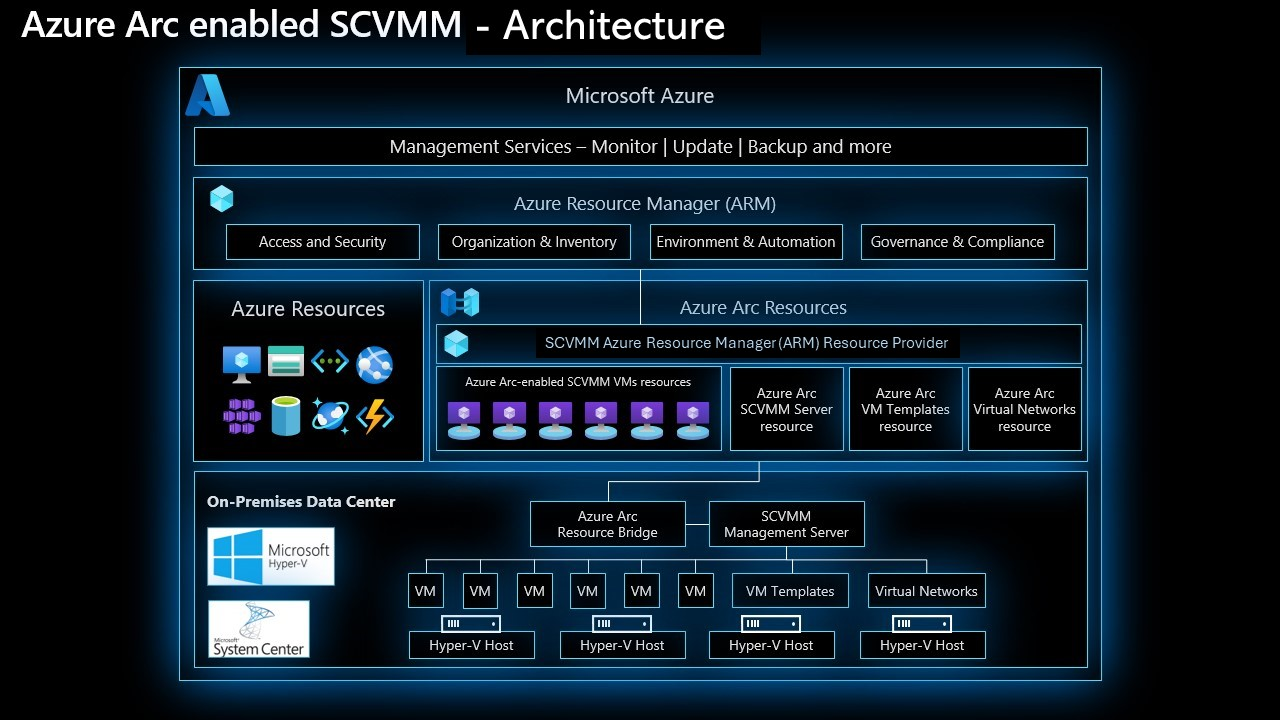
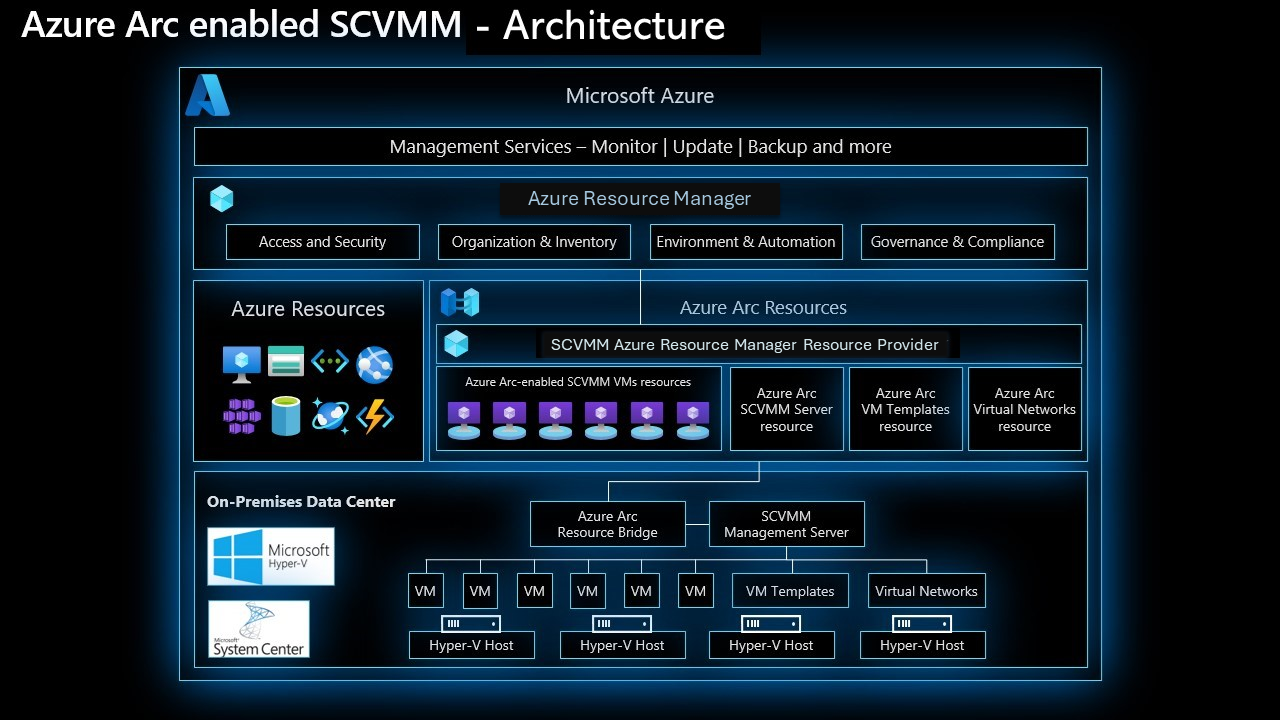
Removed ARM from Architecture image and minor updates

Changed region(s): [[0.375, 0.2444, 0.625, 0.3056], [0.4062, 0.4583, 0.75, 0.4889]]

diff --git a/articles/azure-arc/system-center-virtual-machine-manager/quickstart-connect-system-center-virtual-machine-manager-to-arc.md b/articles/azure-arc/system-center-virtual-machine-manager/quickstart-connect-system-center-virtual-machine-manager-to-arc.md
@@ -31,7 +31,7 @@ This Quickstart shows you how to connect your SCVMM management server to Azure A
 | **Azure** | An Azure subscription  <br/><br/> A resource group in the above subscription where you have the *Owner/Contributor* role. |
 | **SCVMM** | You need an SCVMM management server running version 2019 or later.<br/><br/> A private cloud or a host group with a minimum free capacity of 32 GB of RAM, 4 vCPUs with 100 GB of free disk space. <br/><br/> A VM network with internet access, directly or through proxy. Appliance VM will be deployed using this VM network.<br/><br/> Only Static IP allocation is supported and VMM Static IP Pool is required. Follow [these steps](/system-center/vmm/network-pool?view=sc-vmm-2022&preserve-view=true) to create a VMM Static IP Pool and ensure that the Static IP Pool has at least four IP addresses. Dynamic IP allocation using DHCP isn't supported. <br/><br/> A library share with write permission for the SCVMM admin account through which Resource Bridge deployment is going to be performed.  |
 | **SCVMM accounts** | An SCVMM admin account that can perform all administrative actions on all objects that VMM manages. <br/><br/> The user should be part of local administrator account in the SCVMM server. If the SCVMM server is installed in a High Availability configuration, the user should be a part of the local administrator accounts in all the SCVMM cluster nodes. <br/><br/>This will be used for the ongoing operation of Azure Arc-enabled SCVMM and the deployment of the Arc Resource bridge VM. |
-| **Workstation** | The workstation will be used to run the helper script.<br/><br/> A Windows/Linux machine that can access both your SCVMM management server and internet, directly or through proxy.<br/><br/> The helper script can be run directly from the VMM server machine as well.<br/><br/> To avoid network latency issues, we recommend executing the helper script directly in the VMM server machine.<br/><br/> **Note:** When you execute the script from a Linux machine, the deployment takes a bit longer and you might experience performance issues. |
+| **Workstation** | The workstation will be used to run the helper script.<br/><br/> A Windows/Linux machine that can access both your SCVMM management server and internet, directly or through proxy.<br/><br/> The helper script can be run directly from the VMM server machine as well.<br/><br/> To avoid network latency issues, we recommend executing the helper script directly in the VMM server machine.<br/><br/> Note that when you execute the script from a Linux machine, the deployment takes a bit longer and you might experience performance issues. |
 
 ## Prepare SCVMM management server
 
